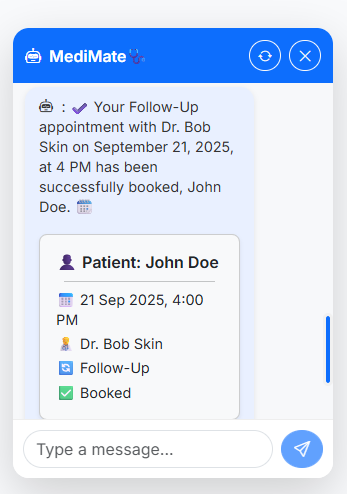
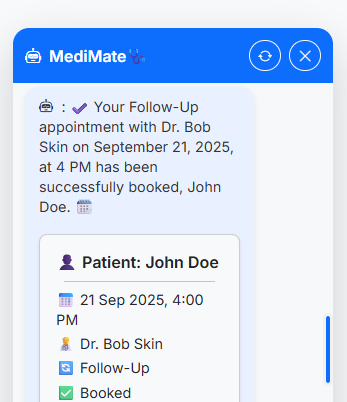
default message for commit:

diff --git a/src/app/works/works.component.html b/src/app/works/works.component.html
@@ -17,10 +17,10 @@
                         <ul class="folio-list row block-lg-one-half block-stack-on-1000">
 
                             <li class="folio-list__item column" data-animate-el>
-                                <a class="folio-list__item-link" href="#modal-01">
+                                <a class="folio-list__item-link" href="#modal-0">
                                     <div class="folio-list__item-pic">
                                         <img src="../assets/images/portfolio/mm.png"
-                                             srcset="../assets/images/portfolio/mm.png 1x, ../assets/images/portfolio/mm@2x.png 2x"  alt="">
+                                             srcset="../assets/images/portfolio/mm.png 1x, ../assets/images/portfolio/mm.png 2x"  alt="">
                                     </div>
                                     
                                     <div class="folio-list__item-text">
@@ -40,8 +40,7 @@
                             <li class="folio-list__item column" data-animate-el>
                                 <a class="folio-list__item-link" href="#modal-01">
                                     <div class="folio-list__item-pic">
-                                        <img src="../assets/images/portfolio/portfolio.png"
-                                             srcset="../assets/images/portfolio/portfolio.png 1x, ../assets/images/portfolio/portfolio@2x.png 2x"  alt="">
+                                        <img src="../assets/images/portfolio/portfolio.png" alt="">
                                     </div>
                                     
                                     <div class="folio-list__item-text">
@@ -56,28 +55,7 @@
                                 <a class="folio-list__proj-link" href="#" title="project link">
                                     <svg width="15" height="15" viewBox="0 0 15 15" fill="none" xmlns="http://www.w3.org/2000/svg"><path d="M8.14645 3.14645C8.34171 2.95118 8.65829 2.95118 8.85355 3.14645L12.8536 7.14645C13.0488 7.34171 13.0488 7.65829 12.8536 7.85355L8.85355 11.8536C8.65829 12.0488 8.34171 12.0488 8.14645 11.8536C7.95118 11.6583 7.95118 11.3417 8.14645 11.1464L11.2929 8H2.5C2.22386 8 2 7.77614 2 7.5C2 7.22386 2.22386 7 2.5 7H11.2929L8.14645 3.85355C7.95118 3.65829 7.95118 3.34171 8.14645 3.14645Z" fill="currentColor" fill-rule="evenodd" clip-rule="evenodd"></path></svg>
                                 </a>
-                            </li> <!--end folio-list__item -->
-
-                            <li class="folio-list__item column" data-animate-el>
-                                <a class="folio-list__item-link" href="#modal-02">
-                                    <div class="folio-list__item-pic">
-                                        <img src="../assets/images/portfolio/todo.png" 
-                                             srcset="../assets/images/portfolio/todo.png 1x, ../assets/images/portfolio/todo@2x.png 2x" alt="">
-                                    </div>
-                                    
-                                    <div class="folio-list__item-text">
-                                        <div class="folio-list__item-cat">
-                                            Mobile App
-                                        </div>
-                                        <div class="folio-list__item-title">
-                                            Todo App.
-                                        </div>
-                                    </div>
-                                </a>
-                                <a class="folio-list__proj-link" href="#" title="project link">
-                                    <svg width="15" height="15" viewBox="0 0 15 15" fill="none" xmlns="http://www.w3.org/2000/svg"><path d="M8.14645 3.14645C8.34171 2.95118 8.65829 2.95118 8.85355 3.14645L12.8536 7.14645C13.0488 7.34171 13.0488 7.65829 12.8536 7.85355L8.85355 11.8536C8.65829 12.0488 8.34171 12.0488 8.14645 11.8536C7.95118 11.6583 7.95118 11.3417 8.14645 11.1464L11.2929 8H2.5C2.22386 8 2 7.77614 2 7.5C2 7.22386 2.22386 7 2.5 7H11.2929L8.14645 3.85355C7.95118 3.65829 7.95118 3.34171 8.14645 3.14645Z" fill="currentColor" fill-rule="evenodd" clip-rule="evenodd"></path></svg>
-                                </a>
-                            </li> <!--end folio-list__item -->
+                            </li> <!--end folio-list__item -->                            
 
                             <li class="folio-list__item column" data-animate-el>
                                 <a class="folio-list__item-link" href="#modal-03">
@@ -119,9 +97,9 @@
                                 <a class="folio-list__proj-link" href="#" title="project link">
                                     <svg width="15" height="15" viewBox="0 0 15 15" fill="none" xmlns="http://www.w3.org/2000/svg"><path d="M8.14645 3.14645C8.34171 2.95118 8.65829 2.95118 8.85355 3.14645L12.8536 7.14645C13.0488 7.34171 13.0488 7.65829 12.8536 7.85355L8.85355 11.8536C8.65829 12.0488 8.34171 12.0488 8.14645 11.8536C7.95118 11.6583 7.95118 11.3417 8.14645 11.1464L11.2929 8H2.5C2.22386 8 2 7.77614 2 7.5C2 7.22386 2.22386 7 2.5 7H11.2929L8.14645 3.85355C7.95118 3.65829 7.95118 3.34171 8.14645 3.14645Z" fill="currentColor" fill-rule="evenodd" clip-rule="evenodd"></path></svg>
                                 </a>
-                            </li>
+                            </li> <!--end folio-list__item -->
 
-                            <!-- <li class="folio-list__item column" data-animate-el>
+                            <li class="folio-list__item column" data-animate-el>
                                 <a class="folio-list__item-link" href="#modal-04">
                                     <div class="folio-list__item-pic">
                                         <img src="../assets/images/portfolio/construction.png"
@@ -140,7 +118,7 @@
                                 <a class="folio-list__proj-link" href="#" title="project link">
                                     <svg width="15" height="15" viewBox="0 0 15 15" fill="none" xmlns="http://www.w3.org/2000/svg"><path d="M8.14645 3.14645C8.34171 2.95118 8.65829 2.95118 8.85355 3.14645L12.8536 7.14645C13.0488 7.34171 13.0488 7.65829 12.8536 7.85355L8.85355 11.8536C8.65829 12.0488 8.34171 12.0488 8.14645 11.8536C7.95118 11.6583 7.95118 11.3417 8.14645 11.1464L11.2929 8H2.5C2.22386 8 2 7.77614 2 7.5C2 7.22386 2.22386 7 2.5 7H11.2929L8.14645 3.85355C7.95118 3.65829 7.95118 3.34171 8.14645 3.14645Z" fill="currentColor" fill-rule="evenodd" clip-rule="evenodd"></path></svg>
                                 </a>
-                            </li> -->
+                            </li> <!--end folio-list__item -->                            
 
                             <li class="folio-list__item column" data-animate-el>
                                 <a class="folio-list__item-link" href="#modal-06">
@@ -170,9 +148,27 @@
 
                     <!-- Modal Templates Popup
                     -------------------------------------------- -->
+                     <div id="modal-0" hidden>
+                        <div class="modal-popup">
+                            <img src="../assets/images/portfolio/gallery/mm@2x.png" alt="">
+                
+                            <div class="modal-popup__desc">
+                                <h5>Medimate Healthcare Assistant</h5>
+                                <p>This is an advanced, agentic AI powered Appointment Assistant chatbot designed to intelligently manage the entire appointment lifecycle end-to-end — it can View upcoming appointments, Book new ones instantly, Modify or Reschedule existing bookings, and perform several additional context-aware appointment related tasks automatically. It can reason, decide actions on its own, analyze user intent, validate specialty and availability, handle conflicts, ensure correct routing, and continuously assist the patient step-by-step with a smooth, highly personalized, smart appointment experience — without the user needing to manually navigate complex scheduling workflows.</p>
+                                <ul class="modal-popup__cat">
+                                    <li>Angular</li>
+                                    <li>.Net Core</li>
+                                    <li>Azure OpenAI</li>
+                                </ul>
+                            </div>
+                
+                            <a class="modal-popup__details">Project link</a>
+                        </div>
+                    </div> <!-- end modal -->
+
                     <div id="modal-01" hidden>
                         <div class="modal-popup">
-                            <img src="../assets/images/portfolio/gallery/portfolio.png" alt="">
+                            <img src="../assets/images/portfolio/gallery/portfolio@2x.png" alt="">
                 
                             <div class="modal-popup__desc">
                                 <h5>Portfolio</h5>
@@ -183,7 +179,7 @@
                                 </ul>
                             </div>
                 
-                            <a href="https://sumitsorate.site/" class="modal-popup__details">Project link</a>
+                            <a class="modal-popup__details">Project link</a>
                         </div>
                     </div> <!-- end modal -->
 
@@ -200,7 +196,7 @@
                                 </ul>
                             </div>
                 
-                            <a href="#" class="modal-popup__details">Project link</a>
+                            <a class="modal-popup__details disabled">Project link</a>
                         </div>
                     </div> <!-- end modal -->
 
@@ -221,7 +217,7 @@
                                 </ul>
                             </div>
                 
-                            <a href="#" class="modal-popup__details">Project link</a>
+                            <a class="modal-popup__details">Project link</a>
                         </div>
                     </div> <!-- end modal -->
 
@@ -243,7 +239,7 @@
                                 </ul>
                             </div>
                 
-                            <a href="#" class="modal-popup__details">Project link</a>
+                            <a class="modal-popup__details">Project link</a>
                         </div>
                     </div> <!-- end modal -->
 
@@ -282,7 +278,7 @@
                                 </ul>
                             </div>
                 
-                            <a href="#" class="modal-popup__details">Project link</a>
+                            <a class="modal-popup__details">Project link</a>
                         </div>
                     </div> <!-- end modal -->
 
